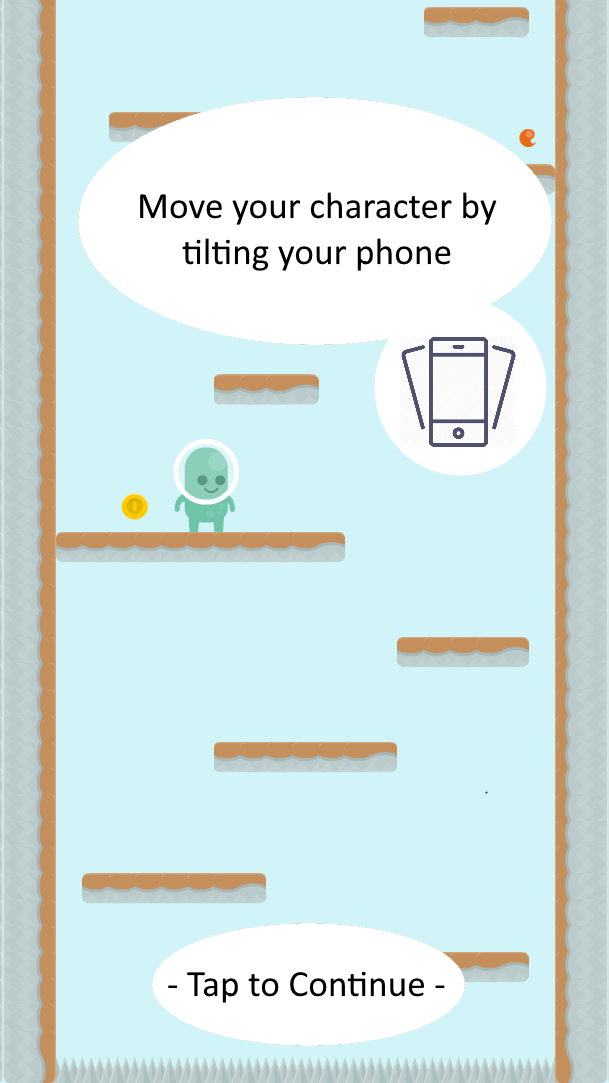
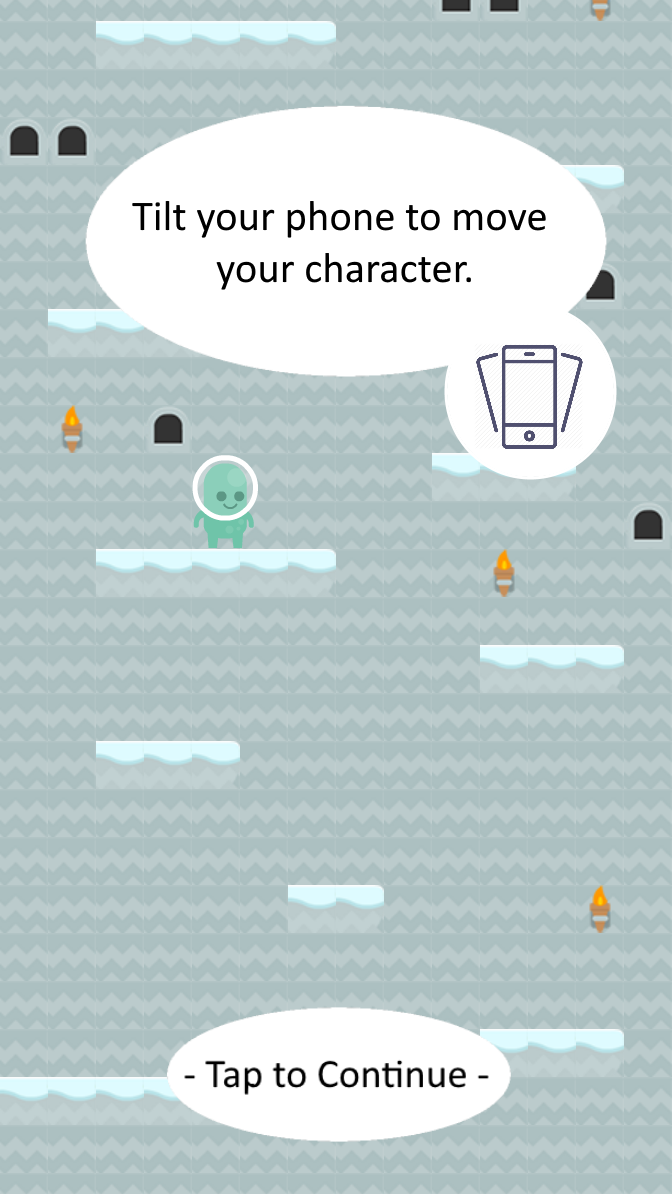
Tutorial screen change functioning

diff --git a/app/core/src/com/icy/game/Views/TutorialScreen.java b/app/core/src/com/icy/game/Views/TutorialScreen.java
@@ -6,11 +6,7 @@ import com.badlogic.gdx.graphics.GL20;
 import com.badlogic.gdx.graphics.Texture;
 import com.badlogic.gdx.graphics.g2d.SpriteBatch;
 import com.badlogic.gdx.utils.viewport.Viewport;
-import com.badlogic.gdx.scenes.scene2d.InputEvent;
-import com.badlogic.gdx.scenes.scene2d.InputListener;
 import com.badlogic.gdx.scenes.scene2d.Stage;
-import com.badlogic.gdx.scenes.scene2d.ui.Image;
-import com.badlogic.gdx.scenes.scene2d.ui.Table;
 import com.icy.game.IcyGame;
 
 /**
@@ -21,14 +17,10 @@ public class TutorialScreen implements Screen{
 
     private IcyGame game;
     private int page_counter;
-    private Viewport viewport;
     private Stage stage;
-    private Texture tutorial_1 = new Texture("tutorial/tutorial_1.png");
-    private Texture tutorial_2 = new Texture("tutorial/tutorial_2.png");
-    private Texture tutorial_3 = new Texture("tutorial/tutorial_3.png");
-    private Texture tutorial_4 = new Texture("tutorial/tutorial_4.png");
     private SpriteBatch batch = new SpriteBatch();
-    private Texture[] tutorial_screens = {tutorial_1, tutorial_2, tutorial_3, tutorial_4};
+    private Texture[] tutorial_screens = {new Texture("tutorial/tutorial_1.png"), new Texture("tutorial/tutorial_2.png"),
+            new Texture("tutorial/tutorial_3.png"), new Texture("tutorial/tutorial_4.png"), new Texture("tutorial/tutorial_5.png")};
 
     public TutorialScreen(IcyGame game) {
         this.game = game;
@@ -82,7 +74,7 @@ public class TutorialScreen implements Screen{
         if(Gdx.input.justTouched()){
             page_counter++;
         }
-        if (page_counter == 4) {
+        if (page_counter == tutorial_screens.length) {
             page_counter = 0;
             game.setScreen(new MenuScreen(game));
             dispose();
